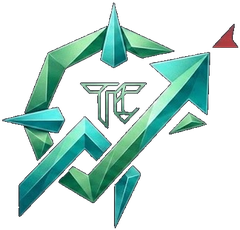
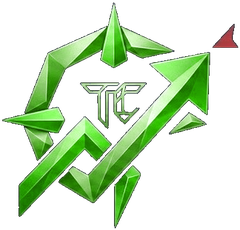
Give search results and home screens the lime mark on black
The favicon links offered 16 and 32px only, and Google picks up a favicon only at a multiple of
48px — so search results showed the generic globe. 48 and 96 are offered now. The home-screen
icons (icon-192/512 for Android and desktop installs, apple-touch-icon for iOS) were still the old
emerald mark on navy; every one is the lime mark on black now, drawn from favicon.png by
dist/icons.mjs, with a separate maskable icon that keeps the mark inside the 60% Android does not
crop. The manifest's colours, the theme-color and the share card's own background move from the
old navy to black, and the share card's mark (share-mark.png) is re-hued with the rest.

Changed region(s): [[0.0, 0.0304, 0.875, 0.9739]]

diff --git a/src/utils/shareCard.ts b/src/utils/shareCard.ts
@@ -128,9 +128,9 @@ const STARFIELD_DEFS = `<linearGradient id="starFadeLandscape" x1="0" y1="0" x2=
     <clipPath id="cardClipLandscape"><rect width="600" height="400" rx="32"/></clipPath>
     <clipPath id="cardClipPortrait"><rect width="450" height="800" rx="40"/></clipPath>
     <linearGradient id="scrim" x1="0" y1="0" x2="0" y2="1">
-      <stop offset="0%" stop-color="#07090f" stop-opacity="0.62"/>
-      <stop offset="46%" stop-color="#07090f" stop-opacity="0.32"/>
-      <stop offset="100%" stop-color="#07090f" stop-opacity="0.8"/>
+      <stop offset="0%" stop-color="#000000" stop-opacity="0.62"/>
+      <stop offset="46%" stop-color="#000000" stop-opacity="0.32"/>
+      <stop offset="100%" stop-color="#000000" stop-opacity="0.8"/>
     </linearGradient>`;
 
 /** Per-accent nebula glow gradients — regenerated with the resolved accent colors rather than
@@ -214,7 +214,7 @@ function backgroundLayer(orientation: ShareCardOrientation, backgroundImageHref?
 
   if (backgroundImageHref) {
     const clip = orientation === 'portrait' ? 'cardClipPortrait' : 'cardClipLandscape';
-    return `<rect width="${width}" height="${height}" fill="#07090f"/>
+    return `<rect width="${width}" height="${height}" fill="#000000"/>
   <image href="${escapeXml(backgroundImageHref)}" x="0" y="0" width="${width}" height="${height}" preserveAspectRatio="xMidYMid slice" clip-path="url(#${clip})"/>
   <rect width="${width}" height="${height}" fill="url(#scrim)"/>`;
   }
@@ -420,7 +420,7 @@ function buildShareSvgLandscape(
     <linearGradient id="bg" x1="0" y1="0" x2="0.6" y2="1">
       <stop offset="0%" stop-color="#111827"/>
       <stop offset="55%" stop-color="#0a0f18"/>
-      <stop offset="100%" stop-color="#07090f"/>
+      <stop offset="100%" stop-color="#000000"/>
     </linearGradient>
     <filter id="pnlGlow" x="-20%" y="-20%" width="140%" height="140%">
       <feGaussianBlur stdDeviation="3" result="blur"/>
@@ -502,7 +502,7 @@ function buildShareSvgPortrait(
     <linearGradient id="bg" x1="0" y1="0" x2="0.4" y2="1">
       <stop offset="0%" stop-color="#111827"/>
       <stop offset="55%" stop-color="#0a0f18"/>
-      <stop offset="100%" stop-color="#07090f"/>
+      <stop offset="100%" stop-color="#000000"/>
     </linearGradient>
     <filter id="pnlGlow" x="-20%" y="-20%" width="140%" height="140%">
       <feGaussianBlur stdDeviation="3" result="blur"/>

diff --git a/index.html b/index.html
@@ -11,7 +11,15 @@
       nobody recognised was the one search results and tabs actually showed. Removed rather than
       redrawn: the logo has no vector original, and an SVG wrapping a bitmap buys nothing.
     -->
+    <!--
+      48 and 96 as well as 16 and 32: Google only picks up a favicon that is a multiple of 48px,
+      so search results showed the generic globe for as long as 32 was the largest on offer. The
+      home-screen icons are in the manifest (Android, desktop) and the apple-touch-icon (iOS); all
+      of them are the mark on black, drawn by dist/icons.mjs from favicon.png.
+    -->
     <link rel="icon" href="/favicon.ico" sizes="32x32" />
+    <link rel="icon" href="/favicon-96.png" type="image/png" sizes="96x96" />
+    <link rel="icon" href="/favicon-48.png" type="image/png" sizes="48x48" />
     <link rel="icon" href="/favicon-32.png" type="image/png" sizes="32x32" />
     <link rel="icon" href="/favicon-16.png" type="image/png" sizes="16x16" />
     <link rel="apple-touch-icon" href="/apple-touch-icon.png" sizes="180x180" />
@@ -23,7 +31,7 @@
     <meta name="description" content="Free trading journal with a visual P&amp;L calendar. Import from 20 brokers including Schwab and Robinhood, or log by hand. Track win rate and profit factor." />
     <meta name="keywords" content="Trend Chasers, trading journal, P&amp;L calendar, trade tracker, options journal, day trading journal" />
     <meta name="robots" content="index, follow" />
-    <meta name="theme-color" content="#07090f" />
+    <meta name="theme-color" content="#000000" />
     <link rel="canonical" href="https://trendchasers.net/" />
     <meta property="og:type" content="website" />
     <meta property="og:url" content="https://trendchasers.net/" />

diff --git a/src/components/ShareCardModal.tsx b/src/components/ShareCardModal.tsx
@@ -287,7 +287,7 @@ export function ShareCardModal({ period, stats, dateKey = '', year, month = 0, o
                 title="Milky Way (default)"
                 aria-label="Use the default Milky Way background"
               >
-                <span className="absolute inset-0 bg-gradient-to-br from-[#111827] via-[#0a0f18] to-[#07090f]" />
+                <span className="absolute inset-0 bg-gradient-to-br from-[#111827] via-[#0a0f18] to-[#000000]" />
                 <Sparkles size={14} className="absolute inset-0 m-auto text-white/70" />
               </button>
 
